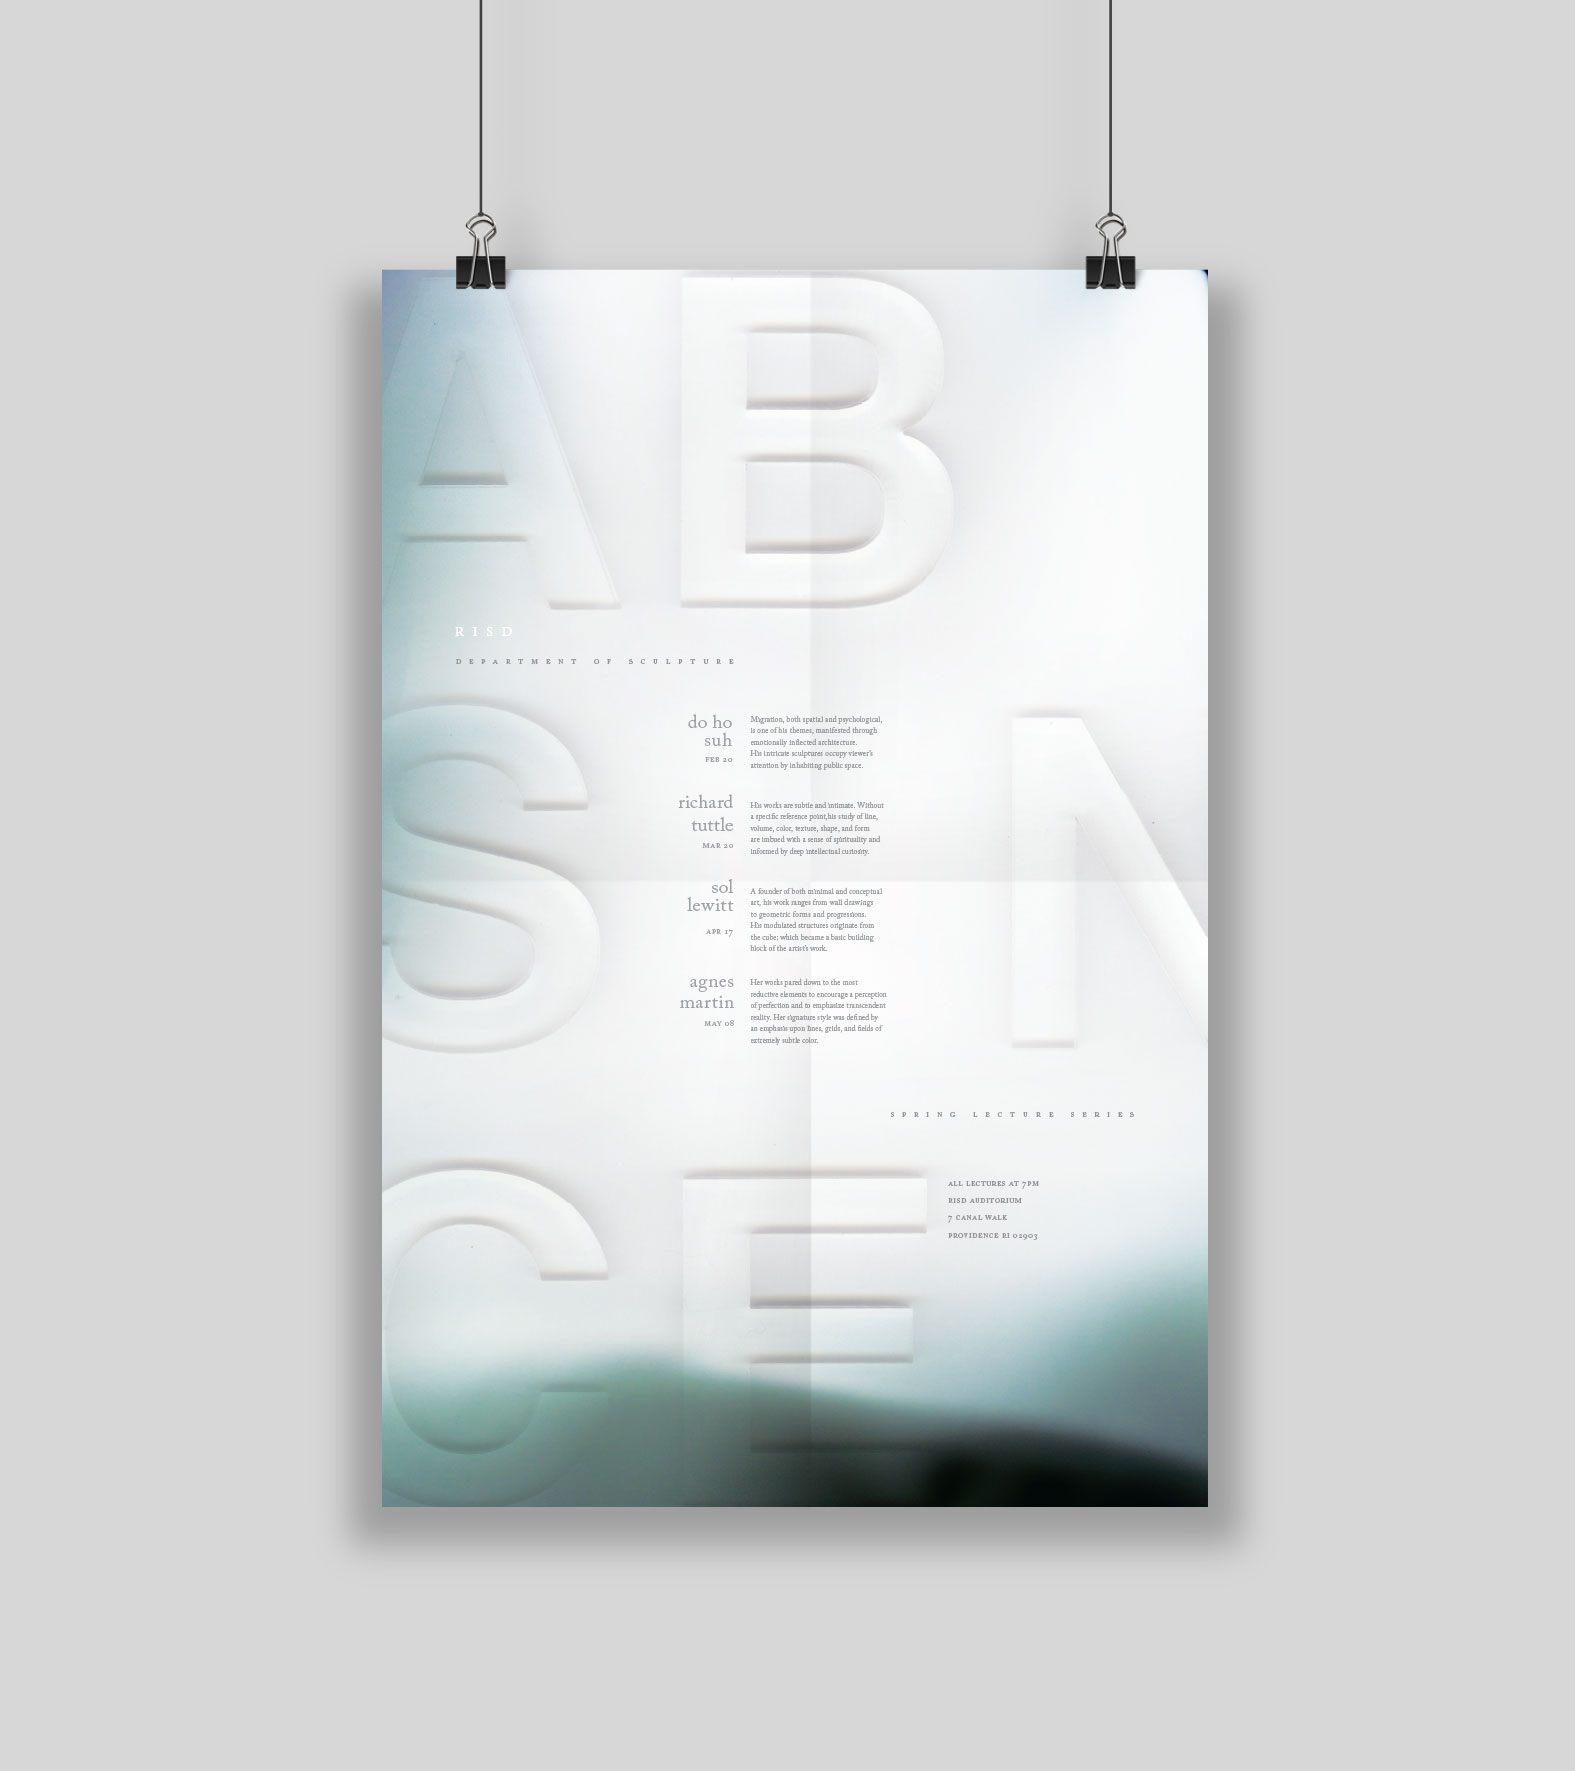
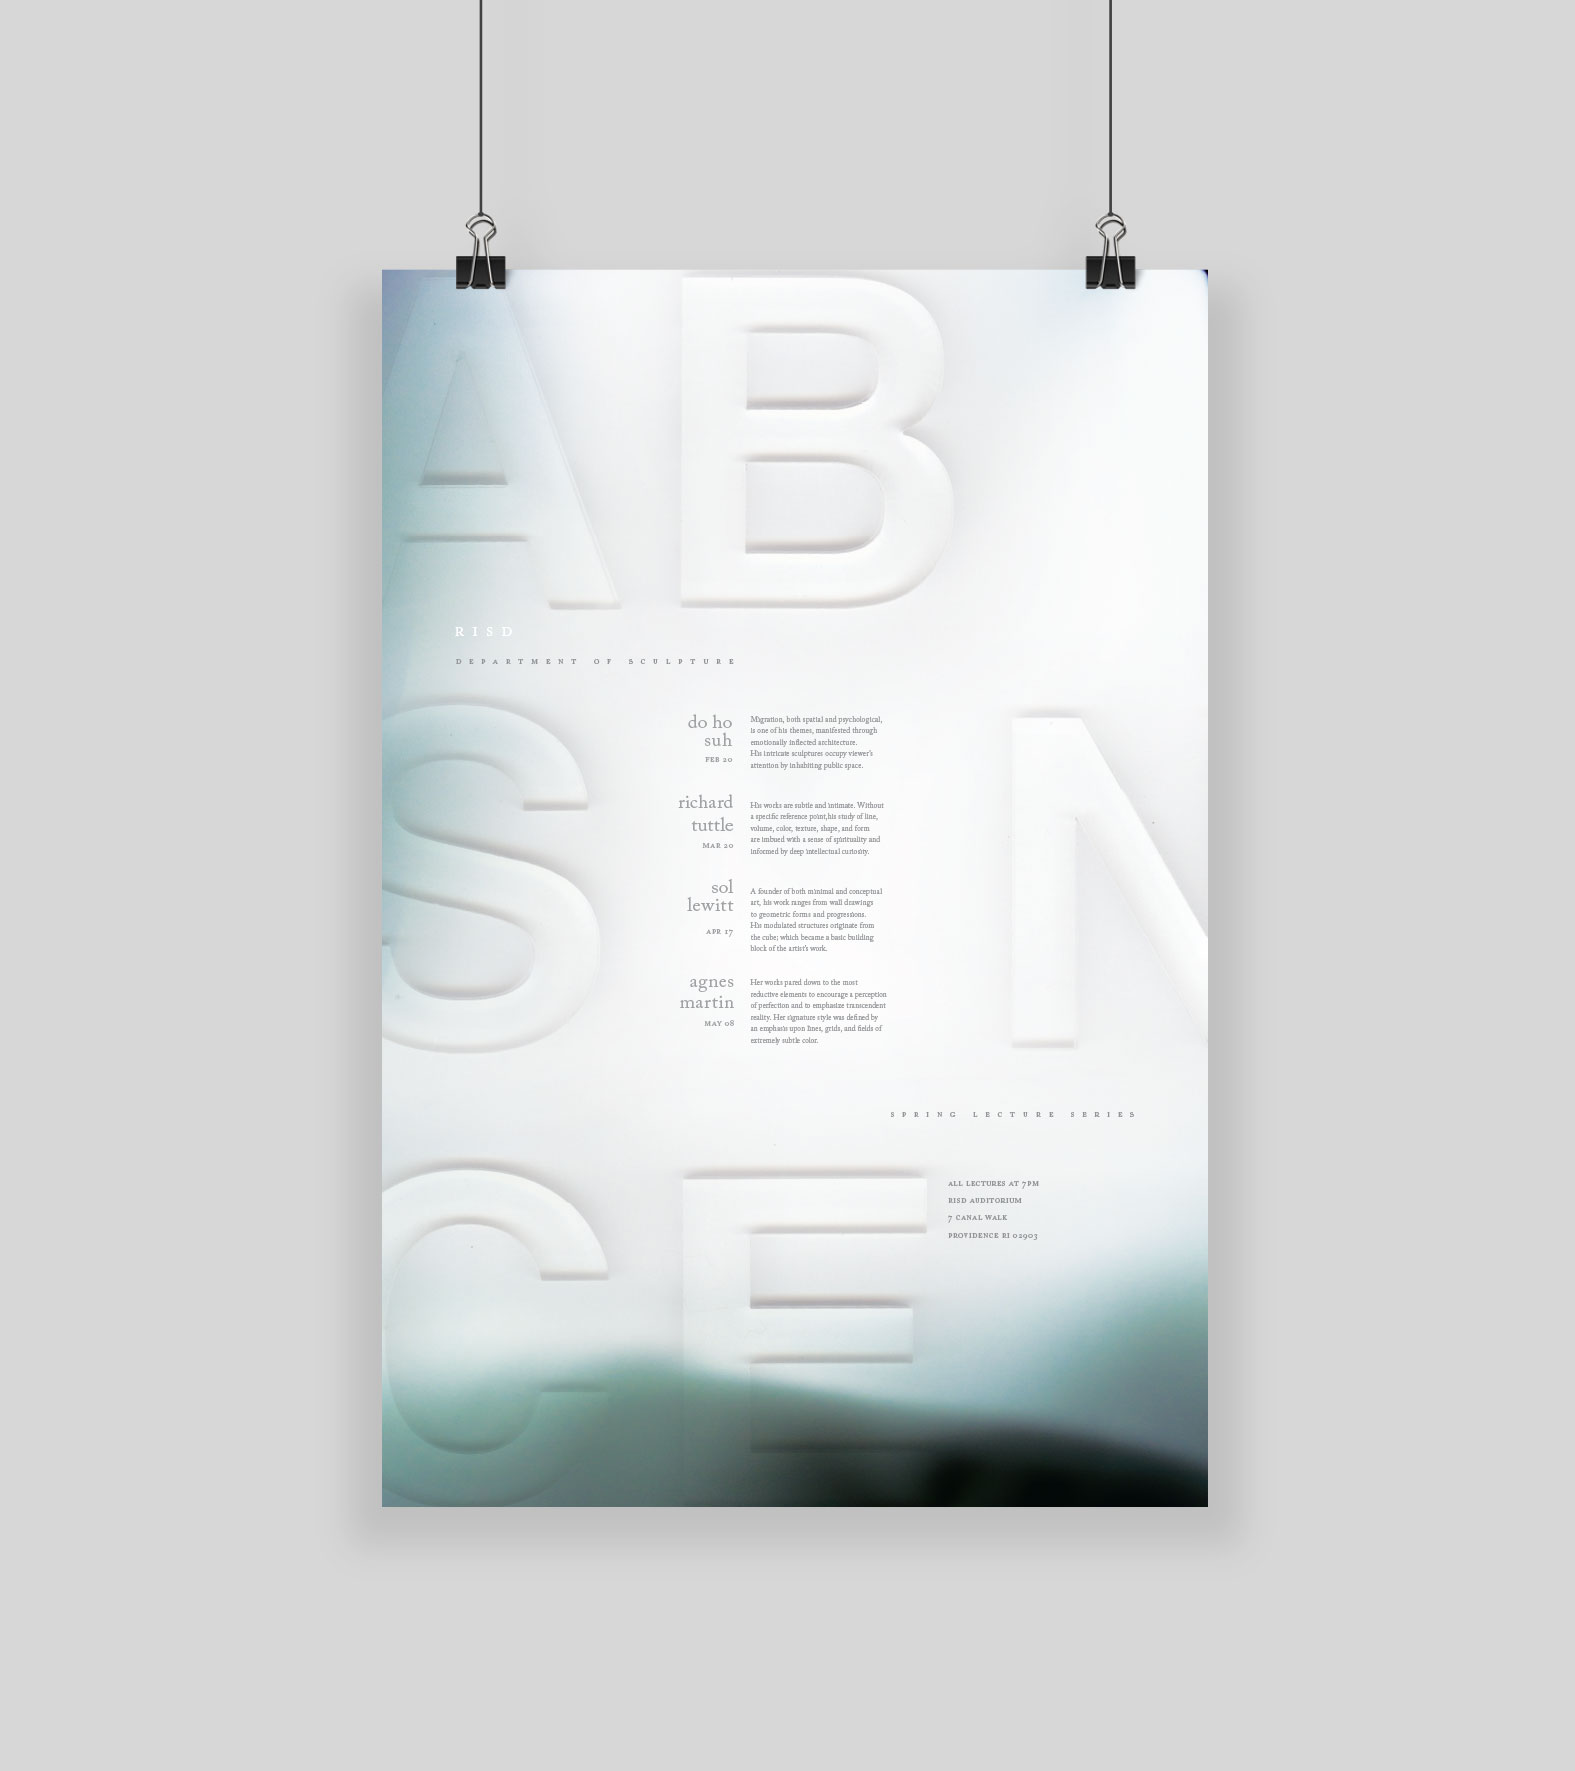
d

Changed region(s): [[0.2178, 0.1553, 0.8089, 0.8696]]

diff --git a/pages/museumposter/museumposter.html b/pages/museumposter/museumposter.html
@@ -52,17 +52,9 @@
         
         <div class="wrapper2" >
             <div class="images" id="deco01">
-              <img src="images/alice1.jpg">
-                    <img src="images/alice2.jpg">
-                        <img src="images/alice3.jpg">
-                <img src="images/alice4.jpg">
-                <img src="images/alice5.jpg">
-                <img src="images/alice6.jpg">
-                <img src="images/alice7.jpg">
-                <img src="images/alice8.jpg">
-                <img src="images/alice9.jpg">
-                <img src="images/alice10.jpg">
-                <img src="images/alice11.jpg">
+              <img src="images/redrisdmuseum.jpg">
+                    <img src="images/risdposter2.jpg">
+                    
             </div>
            
         </div>

diff --git a/index.html b/index.html
@@ -62,7 +62,7 @@
             <a href="pages/museumposter/museumposter.html">
             <div class="narrowimage">
                 <figure class="overlap">
-                    <img src="images/risdposter.jpg">
+                    <img src="images/redrisdmuseum.jpg">
                     <figcaption><p class="categorynarrow">RISD Museum<br><span class="black">Poster</p></figcaption>
                 </figure>
                 
